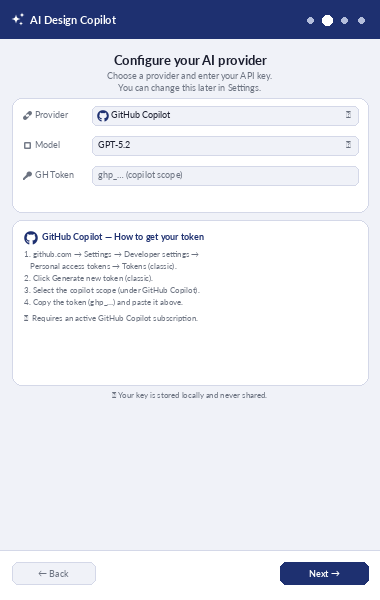
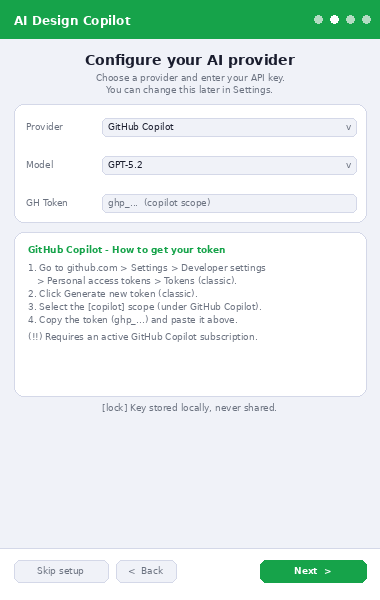
fix: success green primary color, narrower centered mode toggle, regenerate all screenshots
- Change --primary from #1e3070 (blue) to #16a34a (success green)
- Update --primary-hover, --primary-light, --primary-glow, --border-aura, --user-bubble to match
- Replace all hardcoded rgba(30, 48, 112, …) shadow values with rgba(22, 163, 74, …)
- Mode toggle: width: fit-content + margin auto (centered), explicit margins, -webkit-fit-content prefix
- Mode tabs: remove flex:1, increase horizontal padding to 18px
- Regenerate all 9 screenshots with new green palette and DejaVu-compatible text symbols

diff --git a/ui.html b/ui.html
@@ -12,24 +12,24 @@
       --bg: #f0f2f8;
       --surface: #ffffff;
       --border: #d4d8e8;
-      --border-aura: rgba(30, 48, 112, 0.18);
+      --border-aura: rgba(22, 163, 74, 0.18);
 
-      --primary: #1e3070;
-      --primary-hover: #162558;
-      --primary-light: #2d46a0;
+      --primary: #16a34a;
+      --primary-hover: #15803d;
+      --primary-light: #22c55e;
       --primary-text: #ffffff;
-      --primary-glow: rgba(30, 48, 112, 0.35);
+      --primary-glow: rgba(22, 163, 74, 0.35);
 
       --text: #1a1d2e;
       --text-muted: #6b7280;
-      --user-bubble: #1e3070;
+      --user-bubble: #16a34a;
       --ai-bubble: #eef1fb;
       --ai-text: #1a1d2e;
-      --drop-zone-active-bg: #e8ecf8;
+      --drop-zone-active-bg: #e8f5ec;
 
       --radius: 8px;
       --radius-lg: 12px;
-      --shadow-aura: 0 0 0 1px var(--border-aura), 0 0 16px rgba(30, 48, 112, 0.10);
+      --shadow-aura: 0 0 0 1px var(--border-aura), 0 0 16px rgba(22, 163, 74, 0.10);
       --font: -apple-system, BlinkMacSystemFont, "Segoe UI", Roboto, sans-serif;
 
       --status-ready: #16a34a;
@@ -75,7 +75,7 @@
       align-items: center;
       justify-content: space-between;
       flex-shrink: 0;
-      box-shadow: 0 2px 12px rgba(30, 48, 112, 0.30);
+      box-shadow: 0 2px 12px rgba(22, 163, 74, 0.30);
     }
 
     .header__brand {
@@ -190,7 +190,7 @@
       width: 32px;
       height: 2px;
       border-radius: 2px;
-      background: rgba(30, 48, 112, 0.30);
+      background: rgba(22, 163, 74, 0.30);
     }
 
     /* ── Options Bar (checkboxes + skills info on main page) ──── */
@@ -278,7 +278,7 @@
       align-items: center;
       justify-content: space-between;
       flex-shrink: 0;
-      box-shadow: 0 2px 12px rgba(30, 48, 112, 0.30);
+      box-shadow: 0 2px 12px rgba(22, 163, 74, 0.30);
     }
 
     .settings-overlay__title {
@@ -315,9 +315,9 @@
       height: 1px;
       background: linear-gradient(90deg,
         transparent 0%,
-        rgba(30, 48, 112, 0.20) 30%,
-        rgba(30, 48, 112, 0.35) 50%,
-        rgba(30, 48, 112, 0.20) 70%,
+        rgba(22, 163, 74, 0.20) 30%,
+        rgba(22, 163, 74, 0.35) 50%,
+        rgba(22, 163, 74, 0.20) 70%,
         transparent 100%);
       pointer-events: none;
     }
@@ -443,7 +443,7 @@
       align-self: flex-end;
       background: var(--user-bubble);
       border-bottom-right-radius: 3px;
-      box-shadow: 0 2px 10px rgba(30, 48, 112, 0.25), 0 0 20px rgba(30, 48, 112, 0.12);
+      box-shadow: 0 2px 10px rgba(22, 163, 74, 0.25), 0 0 20px rgba(22, 163, 74, 0.12);
     }
     .chat-bubble--user .chat-label { color: rgba(255,255,255,0.65); }
     .chat-bubble--user .chat-text  { color: #ffffff; }
@@ -535,7 +535,7 @@
       padding: 10px 14px 12px;
       flex-shrink: 0;
       overflow: hidden;
-      box-shadow: 0 -2px 12px rgba(30, 48, 112, 0.07);
+      box-shadow: 0 -2px 12px rgba(22, 163, 74, 0.07);
     }
 
     /* ── Mode toggle (Generate / Ask tabs) ───────────────────── */
@@ -545,14 +545,19 @@
       border: 1px solid var(--border);
       border-radius: var(--radius-lg);
       padding: 2px;
+      /* Center the toggle; top margin 0, bottom margin separates from textarea */
+      margin-top: 0;
+      margin-right: auto;
       margin-bottom: 8px;
+      margin-left: auto;
       gap: 2px;
+      width: -webkit-fit-content;
+      width: fit-content;
     }
     .mode-tab {
-      flex: 1;
       border: none;
       border-radius: calc(var(--radius-lg) - 2px);
-      padding: 5px 8px;
+      padding: 5px 18px;
       font-size: 11px;
       font-weight: 600;
       font-family: var(--font);
@@ -573,7 +578,7 @@
     .mode-tab--active {
       background: var(--primary);
       color: var(--primary-text);
-      box-shadow: 0 1px 6px rgba(30, 48, 112, 0.25);
+      box-shadow: 0 1px 6px rgba(22, 163, 74, 0.25);
     }
     .mode-tab:focus-visible {
       outline: none;
@@ -621,7 +626,7 @@
     }
     textarea:focus {
       border-color: var(--primary);
-      box-shadow: 0 0 0 3px var(--primary-glow), 0 0 18px rgba(30, 48, 112, 0.12);
+      box-shadow: 0 0 0 3px var(--primary-glow), 0 0 18px rgba(22, 163, 74, 0.12);
     }
     textarea::placeholder { color: var(--text-muted); }
 
@@ -646,11 +651,11 @@
       color: var(--primary-text);
       flex: 1;
       justify-content: center;
-      box-shadow: 0 2px 10px rgba(30, 48, 112, 0.30), 0 0 20px rgba(30, 48, 112, 0.15);
+      box-shadow: 0 2px 10px rgba(22, 163, 74, 0.30), 0 0 20px rgba(22, 163, 74, 0.15);
     }
     .btn--primary:hover:not(:disabled) {
       background: var(--primary-hover);
-      box-shadow: 0 4px 16px rgba(30, 48, 112, 0.40), 0 0 28px rgba(30, 48, 112, 0.20);
+      box-shadow: 0 4px 16px rgba(22, 163, 74, 0.40), 0 0 28px rgba(22, 163, 74, 0.20);
     }
     .btn--primary:disabled { opacity: 0.55; cursor: not-allowed; box-shadow: none; }
     #generate-btn #generate-icon { font-size: 11px; }
@@ -683,7 +688,7 @@
 
     .btn:focus-visible {
       outline: none;
-      box-shadow: 0 0 0 3px var(--primary-glow), 0 0 16px rgba(30, 48, 112, 0.15);
+      box-shadow: 0 0 0 3px var(--primary-glow), 0 0 16px rgba(22, 163, 74, 0.15);
     }
 
     .hint {
@@ -748,7 +753,7 @@
     .drop-zone:hover, .drop-zone--active {
       border-color: var(--primary);
       background: var(--drop-zone-active-bg);
-      box-shadow: 0 0 0 3px var(--primary-glow), 0 0 16px rgba(30, 48, 112, 0.10);
+      box-shadow: 0 0 0 3px var(--primary-glow), 0 0 16px rgba(22, 163, 74, 0.10);
     }
     .drop-zone__label {
       font-size: 11px;
@@ -800,7 +805,7 @@
       font-size: 10px;
       font-weight: 600;
       padding: 2px 9px;
-      border: 1px solid rgba(30, 48, 112, 0.12);
+      border: 1px solid rgba(22, 163, 74, 0.12);
     }
     .skill-tag--remote {
       background: #e8f5e9;
@@ -880,7 +885,7 @@
       align-items: center;
       justify-content: space-between;
       flex-shrink: 0;
-      box-shadow: 0 2px 12px rgba(30, 48, 112, 0.30);
+      box-shadow: 0 2px 12px rgba(22, 163, 74, 0.30);
     }
 
     .onboarding-header__brand {
